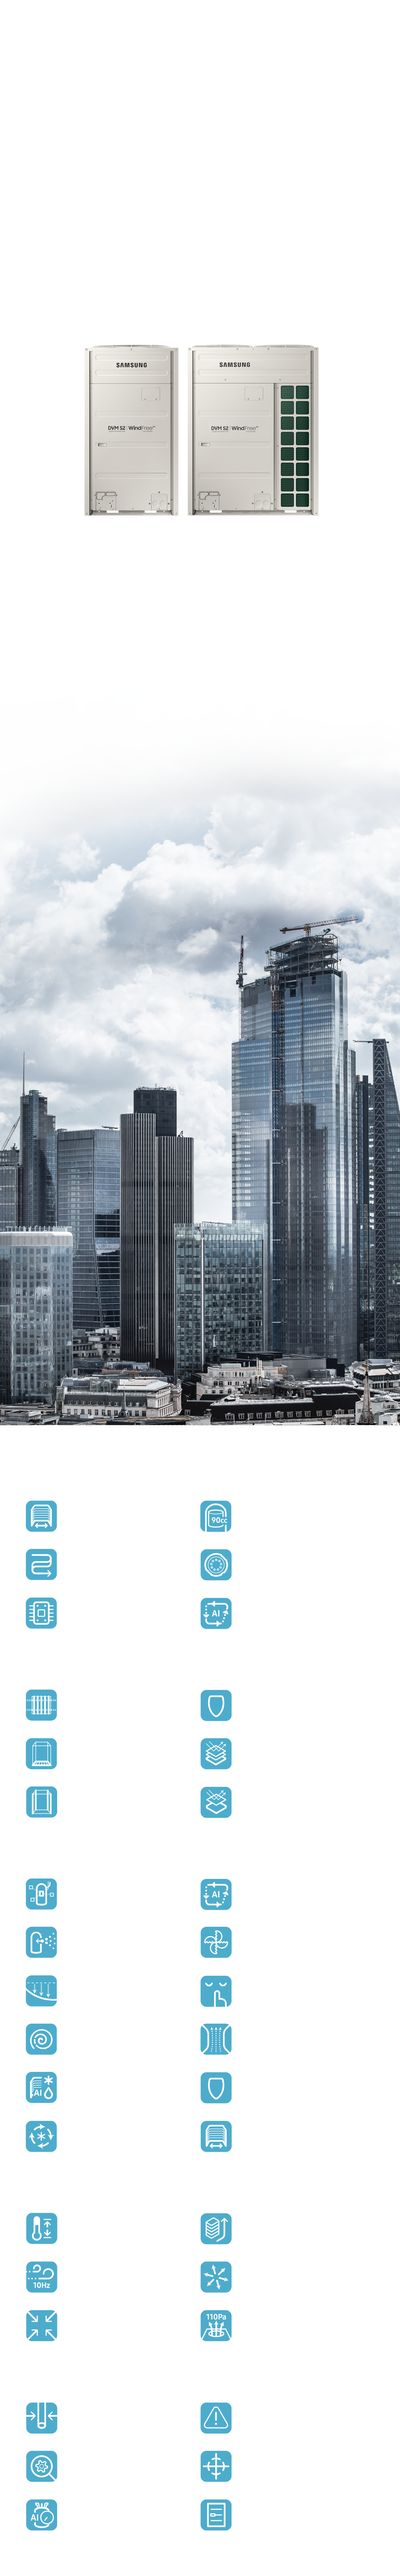
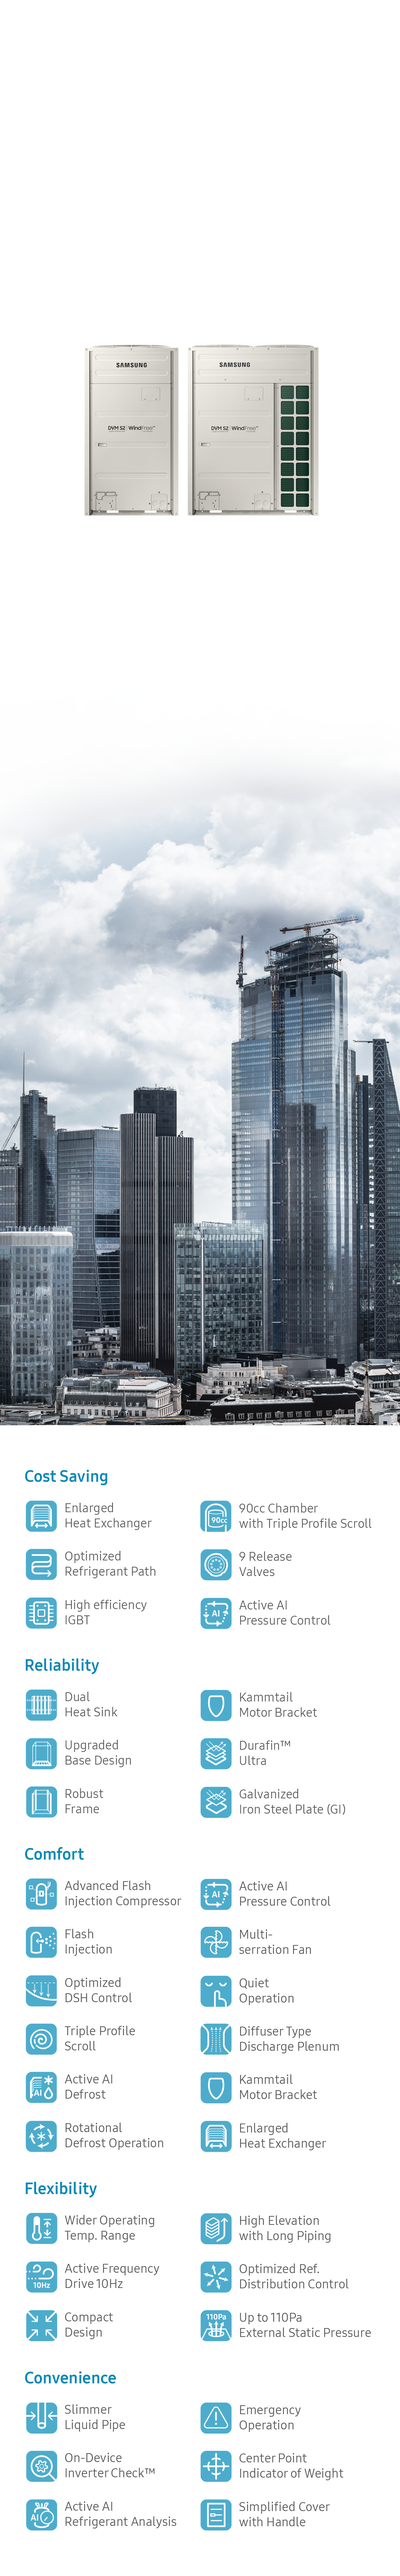
m catalogue 완료

diff --git a/mcatalog/vomm/css/style-tb.less b/mcatalog/vomm/css/style-tb.less
@@ -947,11 +947,11 @@ html { .one; }
         }
       }
       // 004
-      &.m004 { .contain('http://www.vo-mm.com/Samsung/M-Catalogue/img/004t_bg.png'); .no-repeat; .h(4606);
+      &.m004 { .contain('http://www.vo-mm.com/Samsung/M-Catalogue/img/004t_bg.png'); .no-repeat; .h(4118);
         article { .mt(160);
-          .visual h2 { .fs(88); .lh(105); mix-blend-mode: normal; .tc; }
+          .visual h2 { .fs(88); .lh(105); .sharp-m; mix-blend-mode: normal; .tc; }
           .content { position: static;
-            .cont-p { .fs(40); .lh(48); .mt(90); .w(874); }
+            .cont-p { .fs(40); .lh(48); .mt(599); }
             .v-wrap { .fs(0); .abs; .lt; .tl; .p(0,0,0,88); .-box;
               .c-tit { .fs(44); .b-color; .bold; .mb(43); }
               ul { .w(940);
@@ -971,7 +971,7 @@ html { .one; }
         }
       }
       // 005001
-      &.m005001 { background:none; .h(7769);
+      &.m005001 {  .contain('http://www.vo-mm.com/Samsung/M-Catalogue/img/005001t_bg.png'); .no-repeat; .h(7769);
         article { .mt(117);
           .visual h2 { .fs(88); .lh(105); .bold; .g-color; .sharp-b; .tl;
             s { .sharp-m; .ib; }
@@ -1009,7 +1009,7 @@ html { .one; }
         }
       }
       // 005
-      &.m005 { .contain('../img/005t_bg.png'); .no-repeat; .h(1536);
+      &.m005 { .contain('http://www.vo-mm.com/Samsung/M-Catalogue/img/005t_bg.png'); .no-repeat; .h(1536);
         article { .pl(22); .-box;
           .tit { .fs(88); .lh(109); color:#fff; .sharp-b; .tl; .mt(550); }
           .txt { .fs(32); .lh(72); color:#fff; .tl; .mt(64); .rel; .ml(30);

diff --git a/mcatalog/vomm/css/style-tb.css b/mcatalog/vomm/css/style-tb.css
@@ -2722,7 +2722,7 @@ html {
     background-image: url('http://www.vo-mm.com/Samsung/M-Catalogue/img/004t_bg.png');
     background-size: contain;
     background-repeat: no-repeat;
-    height: 224.90234375vw;
+    height: 201.07421875vw;
   }
   .container .wrap.m004 article {
     margin-top: 7.8125vw;
@@ -2730,6 +2730,7 @@ html {
   .container .wrap.m004 article .visual h2 {
     font-size: 4.296875vw;
     line-height: 5.12695313vw;
+    font-family: "Samsung Sharp Sans Medium", sans-serif;
     mix-blend-mode: normal;
     text-align: center;
   }
@@ -2739,8 +2740,7 @@ html {
   .container .wrap.m004 article .content .cont-p {
     font-size: 1.953125vw;
     line-height: 2.34375vw;
-    margin-top: 4.39453125vw;
-    width: 42.67578125vw;
+    margin-top: 29.24804688vw;
   }
   .container .wrap.m004 article .content .v-wrap {
     font-size: 0vw;
@@ -2803,7 +2803,9 @@ html {
     bottom: auto;
   }
   .container .wrap.m005001 {
-    background: none;
+    background-image: url('http://www.vo-mm.com/Samsung/M-Catalogue/img/005001t_bg.png');
+    background-size: contain;
+    background-repeat: no-repeat;
     height: 379.34570313vw;
   }
   .container .wrap.m005001 article {
@@ -2930,7 +2932,7 @@ html {
     transform: none;
   }
   .container .wrap.m005 {
-    background-image: url('../img/005t_bg.png');
+    background-image: url('http://www.vo-mm.com/Samsung/M-Catalogue/img/005t_bg.png');
     background-size: contain;
     background-repeat: no-repeat;
     height: 75vw;

diff --git a/mcatalog/vomm/css/style.less b/mcatalog/vomm/css/style.less
@@ -873,7 +873,7 @@ html { .one; }
         .visual h2 { .fs(88); .lh(105); mix-blend-mode: normal;}
         .content { position: static;
           .cont-p { .fs(44); .lh(53);  .mt(814); }
-          .v-wrap { .fs(0); .abs; .lt; .tl; .p(0,70); .-box;
+          .v-wrap { .fs(0); .abs; .lt; .tl; .p(0,70); .-box; .hide;
             .c-tit { .fs(44); .b-color; .bold; .mb(43); }
             ul li { .fs(34); .lh(40); .g-color; .ib; .pl(106); .-box; .mb(50); .w(470); }
           }
@@ -891,7 +891,7 @@ html { .one; }
         .visual h2 { .fs(70); .lh(84); .bold; .g-color; .sharp-b; .tl;
           s { .sharp-m; .ib; }
         }
-        .content { position: static;
+        .content { position: static; .hide;
           .cont-wrap { .tl; .abs; .lt; .p(0,70); .-box; .wf;
             .tit { .fs(48); .lh(58); .b-color; .bold; .sharp-b;
               s { .fs(30); .lh(58); .fr; .one; .g-color; .regular; }
@@ -940,7 +940,7 @@ html { .one; }
       }
     }
     // 005
-    &.m005 { .contain('../img/005_bg.png'); .no-repeat; .h(1920);
+    &.m005 { .contain('http://www.vo-mm.com/Samsung/M-Catalogue/img/005_bg.png'); .no-repeat; .h(1920);
       article {
         .tit { .fs(88); .lh(109); color:#fff; .sharp-b; .tc; .mt(700); }
         .txt { .fs(32); .lh(72); color:#fff; .tc; .mt(137); .rel;

diff --git a/mcatalog/vomm/css/style.css b/mcatalog/vomm/css/style.css
@@ -2098,6 +2098,7 @@ html {
   padding-bottom: 0vw;
   padding-left: 6.48148148vw;
   box-sizing: border-box;
+  display: none;
 }
 .container .wrap.m004 article .content .v-wrap .c-tit {
   font-size: 4.07407407vw;
@@ -2153,6 +2154,7 @@ html {
 }
 .container .wrap.m005001 article .content {
   position: static;
+  display: none;
 }
 .container .wrap.m005001 article .content .cont-wrap {
   text-align: left;
@@ -2316,7 +2318,7 @@ html {
   transform: translateX(-50%);
 }
 .container .wrap.m005 {
-  background-image: url('../img/005_bg.png');
+  background-image: url('http://www.vo-mm.com/Samsung/M-Catalogue/img/005_bg.png');
   background-size: contain;
   background-repeat: no-repeat;
   height: 177.77777778vw;

diff --git a/mcatalog/vomm/005001.html b/mcatalog/vomm/005001.html
@@ -216,9 +216,6 @@
               <p class="txt">The front cover is a single piece, so it’s simple to open, and its handle provides added convenience and safety.</p>
             </div>
           </div>
-          <img src="http://www.vo-mm.com/Samsung/M-Catalogue/img/005001t_01.png" alt="" class="img1 web">
-          <img src="http://www.vo-mm.com/Samsung/M-Catalogue/img/005001t_02.png" alt="" class="img2 web">
-          <img src="http://www.vo-mm.com/Samsung/M-Catalogue/img/005001t_03.png" alt="" class="img3 web">
         </div>
       </article>
     </div>

diff --git a/mcatalog/vomm/004.html b/mcatalog/vomm/004.html
@@ -19,7 +19,7 @@
             Rebuilt on<br class="mo">
             all new innovations.<br>
             The ultimate in<br class="mo">
-            efficiency<br class="mo">
+            efficiency<br>
             and reliability.
           </h2>
         </div>
